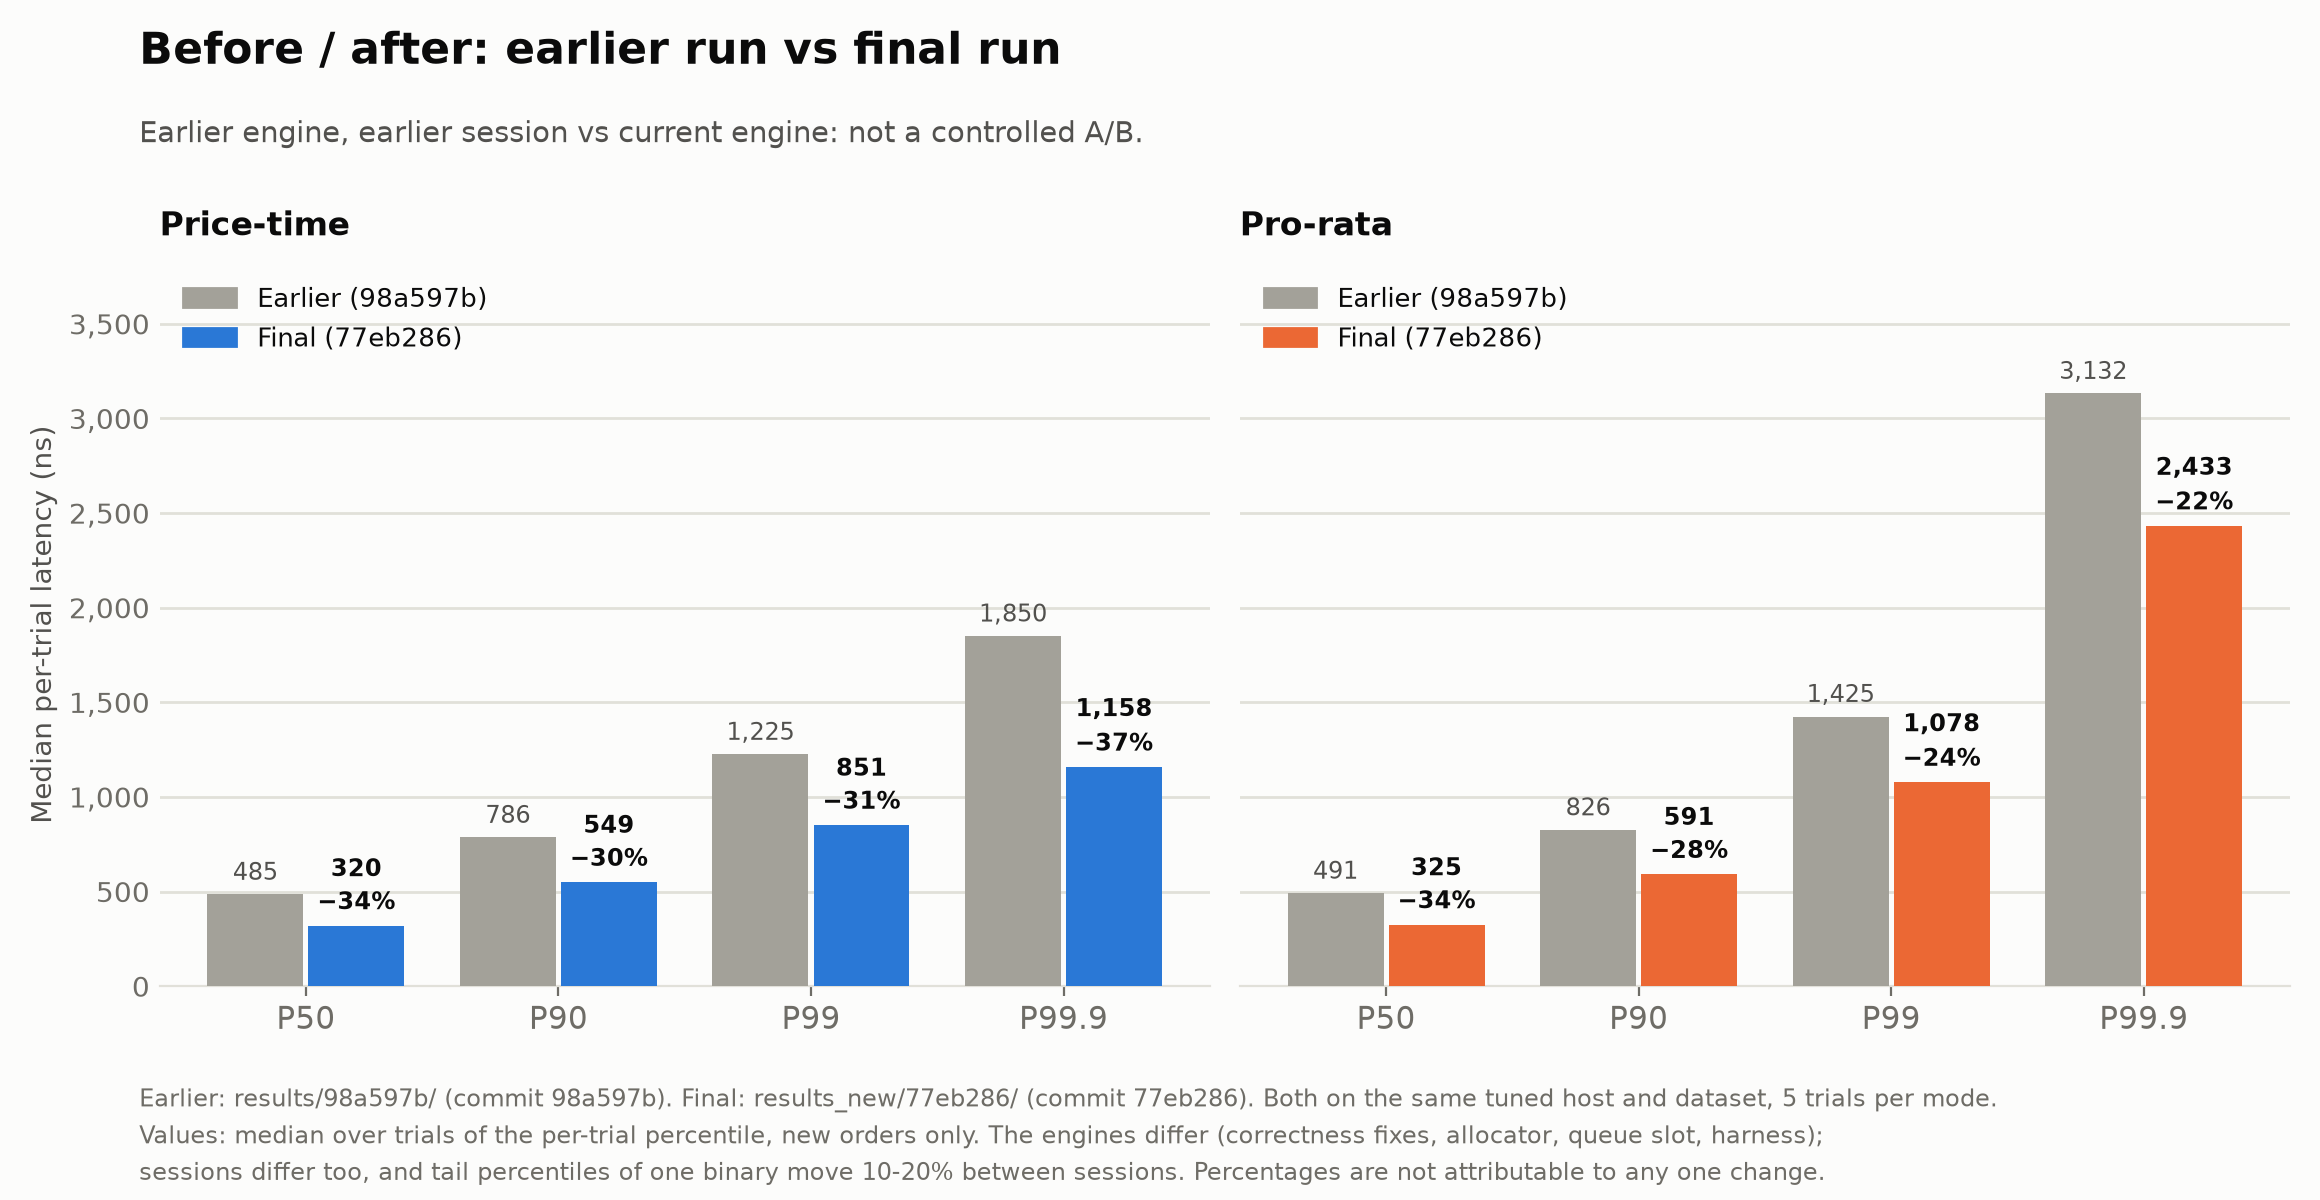
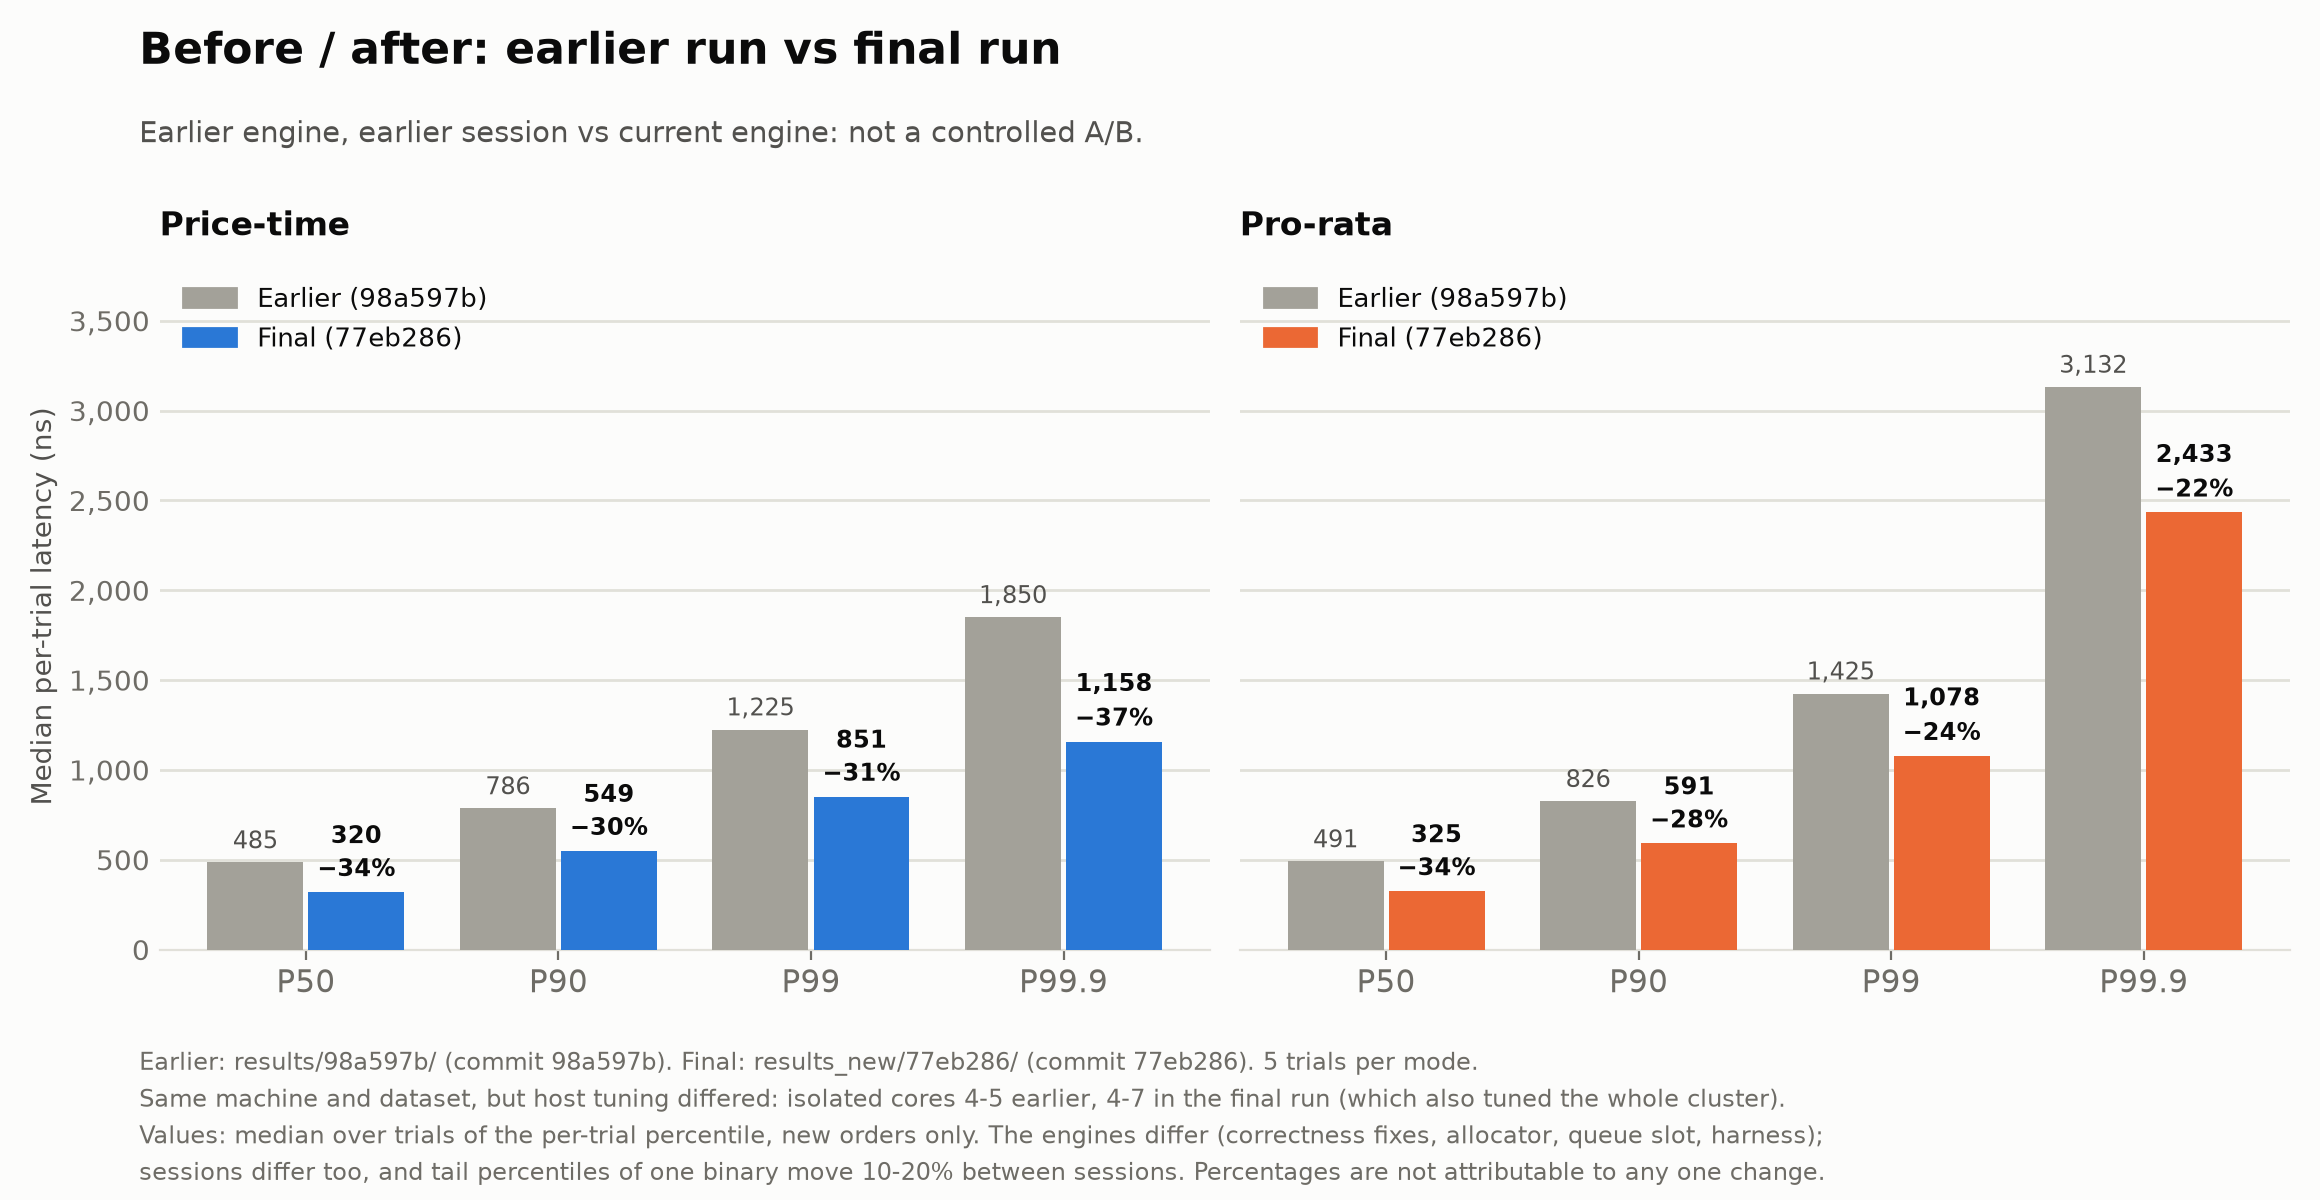
fix: say that the earlier and final runs had different host tuning
The before/after chart claimed both runs were on the same tuned host, but the
saved metadata shows isolated cores 4-5 for the earlier run and 4-7, with the
whole cluster tuned, for the final run. The footer now reads the isolated cores
from each run's metadata and states the difference, and CONSOLIDATED says the
same. The plotted numbers were already correct.

diff --git a/charts/generate_charts.py b/charts/generate_charts.py
@@ -16,6 +16,7 @@ that struct changes (tests/test_chart_reporting.py checks the transcription is g
 
 import argparse
 import csv
+import json
 import re
 import statistics
 import sys
@@ -70,6 +71,29 @@ plt.rcParams.update(
 
 
 # -- Evidence loading ---------------------------------------------------------
+
+
+def isolated_cores(results_dir: Path) -> str | None:
+    """Return the isolated-core list recorded in a run's metadata (for example '4-7')."""
+    try:
+        meta = json.loads((results_dir / "price_time.meta.json").read_text())
+        found = re.search(r"isolated=(\S+)", meta["env_snapshot"])
+    except (OSError, KeyError, ValueError):
+        return None
+    return found.group(1) if found else None
+
+
+def tuning_note(baseline_dir: Path, results_dir: Path) -> str:
+    """Say honestly whether the two runs had the same host tuning, from their metadata."""
+    earlier, final = isolated_cores(baseline_dir), isolated_cores(results_dir)
+    if earlier is None or final is None:
+        return "Same machine and dataset; host tuning not recorded for both runs."
+    if earlier == final:
+        return f"Same machine, dataset and isolated cores ({final})."
+    return (
+        f"Same machine and dataset, but host tuning differed: isolated cores {earlier} earlier, "
+        f"{final} in the final run (which also tuned the whole cluster)."
+    )
 
 
 def display_path(path: Path) -> str:
@@ -705,7 +729,8 @@ def chart_before_after(
         fig,
         [
             f"Earlier: {display_path(baseline_dir)} (commit {baseline_commit}). Final: {display_path(results_dir)} "
-            f"(commit {commit}). Both on the same tuned host and dataset, 5 trials per mode.",
+            f"(commit {commit}). 5 trials per mode.",
+            tuning_note(baseline_dir, results_dir),
             "Values: median over trials of the per-trial percentile, new orders only. The engines differ (correctness fixes, "
             "allocator, queue slot, harness);",
             "sessions differ too, and tail percentiles of one binary move 10-20% between sessions. Percentages are not attributable to any one change.",

diff --git a/tests/test_chart_reporting.py b/tests/test_chart_reporting.py
@@ -1,6 +1,7 @@
 """Regression coverage for chart reporting: test status, verdict vocabulary, labels, determinism."""
 
 import importlib.util
+import json
 import sys
 from pathlib import Path
 import tempfile
@@ -180,6 +181,24 @@ class ChartReportingTests(unittest.TestCase):
         self.assertEqual(len(names), 5)
         for name in names:
             self.assertEqual((outputs[0] / name).read_bytes(), (outputs[1] / name).read_bytes())
+
+    def _run_dir(self, name, isolated):
+        run = self.root / name
+        run.mkdir()
+        if isolated is not None:
+            snapshot = f"isolated={isolated} rx_core=4 matching_core=5"
+            (run / "price_time.meta.json").write_text(json.dumps({"env_snapshot": snapshot}))
+        return run
+
+    def test_tuning_note_states_whether_the_hosts_were_tuned_alike(self):
+        earlier = self._run_dir("earlier", "4-5")
+        final = self._run_dir("final", "4-7")
+        same = self._run_dir("same", "4-5")
+        unknown = self._run_dir("unknown", None)
+        self.assertIn("host tuning differed", charts.tuning_note(earlier, final))
+        self.assertIn("4-5 earlier, 4-7 in the final run", charts.tuning_note(earlier, final))
+        self.assertIn("same isolated cores (4-5)", charts.tuning_note(earlier, same))
+        self.assertIn("not recorded", charts.tuning_note(earlier, unknown))
 
 
 if __name__ == "__main__":

diff --git a/CONSOLIDATED_BENCHMARK_RESULTS.md b/CONSOLIDATED_BENCHMARK_RESULTS.md
@@ -403,7 +403,7 @@ The `unpinned` row needs care and must not be read as a measured effect of pinni
 
 ## Comparison with the earlier run (98a597b)
 
-> **This is not a controlled A/B.** `results/98a597b/` is an earlier engine (before the correctness fixes and the performance work listed below) measured in an earlier session, on the same host and dataset. Hash `51ce6285b274413e` is the same dataset, but the engine, the build, the day and the host condition all differ. Treat the numbers as informative; they do not isolate any single change.
+> **This is not a controlled A/B.** `results/98a597b/` is an earlier engine (before the correctness fixes and the performance work listed below) measured in an earlier session, on the same machine and dataset (hash `51ce6285b274413e`). The engine, the build, the day and the host tuning all differ: that run isolated cores 4-5 only (`isolated=4-5` in its metadata), while the final run isolated 4-7 and tuned the whole cluster. Treat the numbers as informative; they do not isolate any single change.
 
 Both sets: median over 5 trials of the per-trial percentile (ns), new orders only. P99.99 is recomputed from the raw samples with the snippet in [METHODOLOGY.md](METHODOLOGY.md#recomputing-a-percentile-from-raw-samples) and is indicative only (about 9 samples per trial). Sources: `results/98a597b/{price_time,pro_rata}.csv` and `results_new/77eb286/{price_time,pro_rata}.csv`.
 
